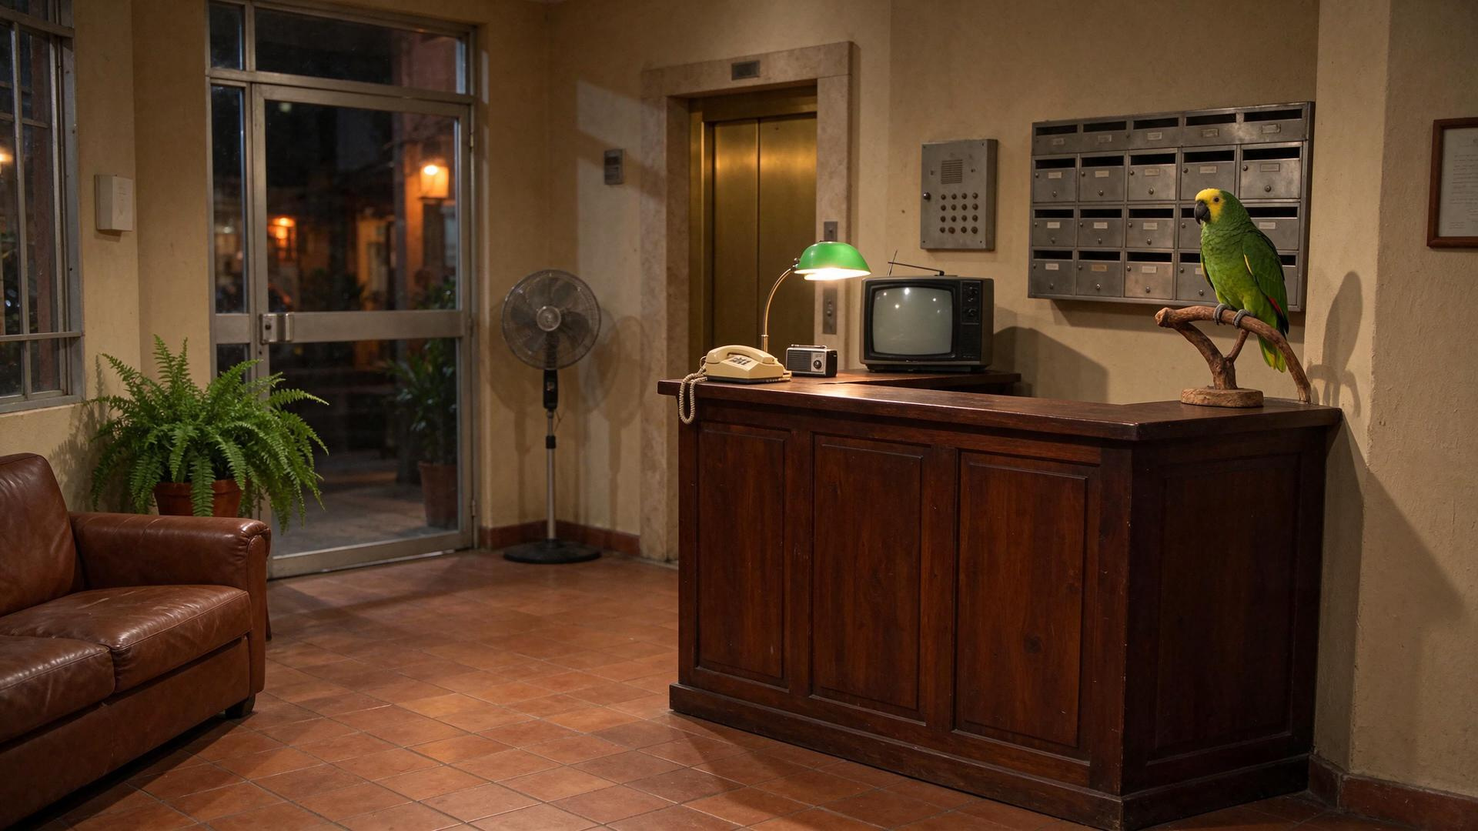
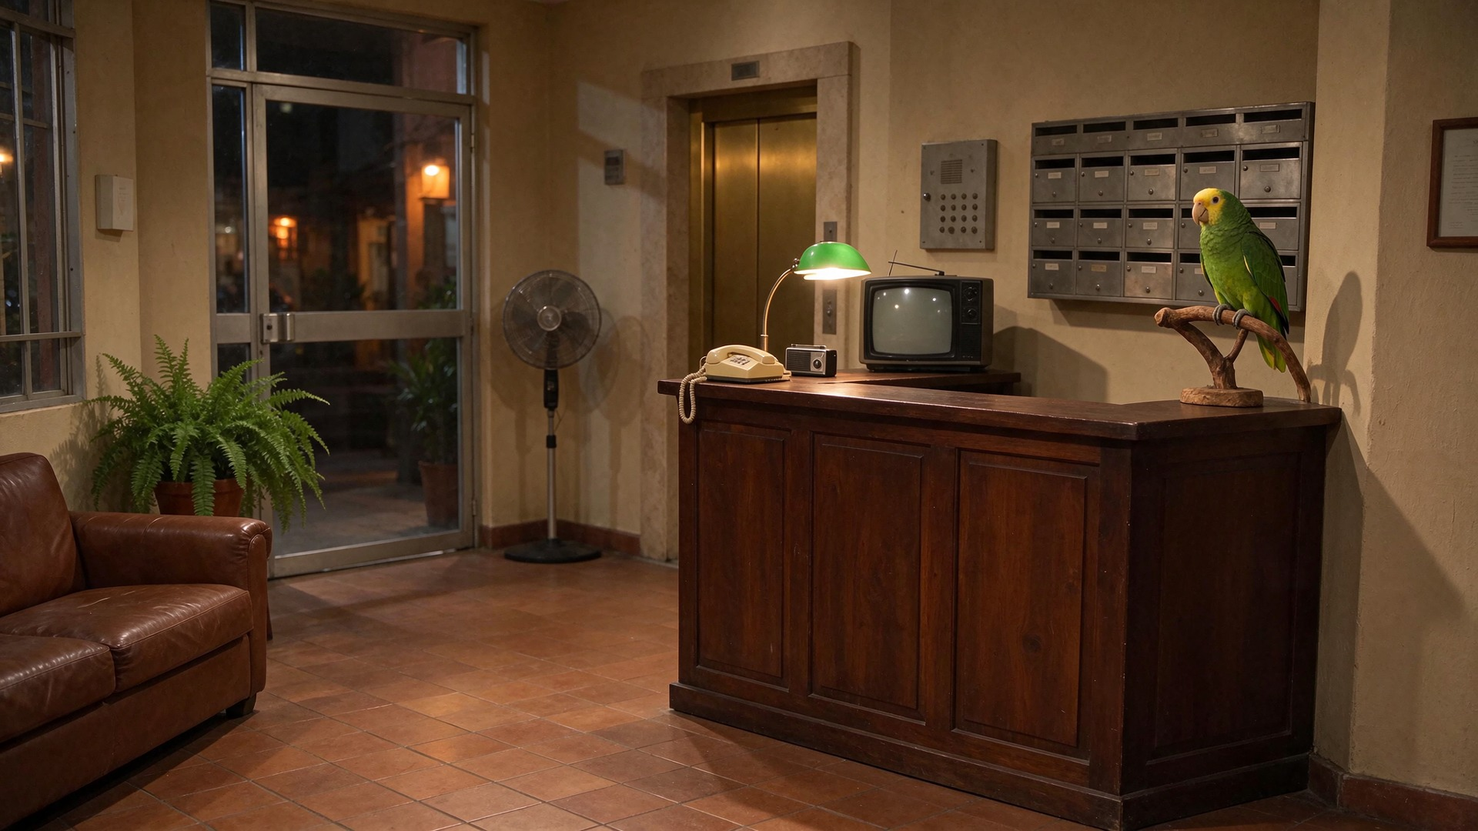
Lobby reference: parrot edited to match Sigilo (pale beak); names spelled by sound in spoken lines (Nêidji, Sijilo) after Lucas's listening
Claude-Session: https://claude.ai/code/session_01CYEraTgRKJNuKiFNAyFqLs

diff --git a/novelinhas/serie-portaria/ep01-a-caixa/montar_tomadas.py b/novelinhas/serie-portaria/ep01-a-caixa/montar_tomadas.py
@@ -88,9 +88,9 @@ tomada("valdir1", "valdir", 4, [2], curta("glancing down over the counter at som
        "eyebrows raised, amused,", fala("valdir", "Que caixa é essa, Juninho?")))
 tomada("valdir2", "valdir", 6, [6, 8], "0 to 2 s: not looking at anyone, playing innocent, " + fala("valdir", "Eu não sou de comentar.")
        + " 2 to 3 s: a quick glance toward screen left, as if someone is staring at him. 3 to 5 s: he leans forward and "
-       + fala("valdir", "É da Dona Neidi.", "quietly, almost whispering") + " 5 to 6 s: he straightens up, mouth closed.", olhar=False)
+       + fala("valdir", "É da Dona Nêidji.", "quietly, almost whispering") + " 5 to 6 s: he straightens up, mouth closed.", olhar=False)
 tomada("valdir3", "valdir", 4, [11], curta("turning his head toward screen RIGHT, toward the parrot at the end of the counter,",
-       fala("valdir", "Sigilo! Fica quieto.", "in a scolding whisper") + SIGILO_NOME, "he turns back toward screen left, mouth closed"),
+       fala("valdir", "Sijilo! Fica quieto.", "in a scolding whisper"), "he turns back toward screen left, mouth closed"),
        olhar=False)
 tomada("valdir4", "valdir", 4, [15], curta("helpful and polite, gesturing down toward the floor in front of the counter (out of frame),",
        fala("valdir", "Chegou uma caixa pra senhora.")) + " No box is visible in this shot; the counter top holds only the phone, the lamp and the small TV.")
@@ -132,7 +132,7 @@ T.append({"tomada": "hall1", "camera": "C1", "refs": ["juninho.jpg", "valdir.jpg
           "prompt": "Wide shot of the lobby of @Image3, camera at eye level, the whole counter visible. The doorman of @Image2 "
           "(grey mustache, light blue shirt, navy tie) stands behind the counter. The glass street door opens and the delivery "
           "man of @Image1 (orange jacket, black helmet) walks in hugging a huge plain brown cardboard box with no text that "
-          "hides his face, and puts it down on the floor in front of the counter. " + fala("juninho", "Entrega pra Dona Neidi!", "out of breath")
+          "hides his face, and puts it down on the floor in front of the counter. " + fala("juninho", "Entrega pra Dona Nêidji!", "out of breath")
           + " Only JUNINHO speaks. " + COMUM})
 T.append({"tomada": "hall2", "camera": "C1", "refs": ["neide.jpg", "soraia.jpg", "portaria.jpg"], "segundos": 4, "planos": [12],
           "prompt": "Wide shot of the lobby of @Image3, camera facing the elevator door with the gold frame; the counter is out "

diff --git a/novelinhas/serie-portaria/ep01-a-caixa/tomadas.md b/novelinhas/serie-portaria/ep01-a-caixa/tomadas.md
@@ -9,8 +9,8 @@ Sotaque carioca para todos, igual ao do Sigilo.
 | Tomada | Câm. | Planos | s | Referências | Prompt |
 |---|---|---|---|---|---|
 | valdir1 | C2 | 2 | 4 | valdir.jpg, portaria.jpg | Medium close-up at eye level of the doorman of @Image1: same face, short grey hair, grey mustache, light blue short-sleeve shirt, navy tie, reading glasses hanging on a cord. He stands behind the dark wooden counter of @Image2; behind him, out of focus, the metal mailboxes and the intercom panel. @Image1 defines only the identity (face, hair, clothes); @Image2 defines only the place. Do not copy their framing, poses or lighting. Looking toward screen LEFT, at the person in front of the counter just off-screen. 0 to 2 s: glancing down over the counter at something big on the floor (out of frame), eyebrows raised, amused, VALDIR says: "Que caixa é essa, Juninho?" Voice: deep, warm, relaxed voice of a man about 58, lively conversational rhythm. 2 to 4 s: a small natural reaction right after the line (a nod or a glance), mouth closed. Only VALDIR speaks. 1990s TV sitcom look, warm studio lighting, rich saturated colors, subtle film grain, background softly out of focus. Static camera, one continuous shot, no cuts. PACE: lively sitcom timing in real time; the character starts talking within the first half second, moves, turns and gestures at normal everyday speed (real-time motion, no slow motion), with natural blinking, following the timings in seconds exactly, with lively intonation; no slow motion, no long silent pauses, nobody stands still waiting. Speech in Brazilian Portuguese with a natural Rio de Janeiro accent. Audio: only the spoken line(s) and soft room tone. No music, no laugh track, no other voices. No subtitles, no text on screen. |
-| valdir2 | C2 | 6, 8 | 6 | valdir.jpg, portaria.jpg | Medium close-up at eye level of the doorman of @Image1: same face, short grey hair, grey mustache, light blue short-sleeve shirt, navy tie, reading glasses hanging on a cord. He stands behind the dark wooden counter of @Image2; behind him, out of focus, the metal mailboxes and the intercom panel. @Image1 defines only the identity (face, hair, clothes); @Image2 defines only the place. Do not copy their framing, poses or lighting. 0 to 2 s: not looking at anyone, playing innocent, VALDIR says: "Eu não sou de comentar." Voice: deep, warm, relaxed voice of a man about 58, lively conversational rhythm. 2 to 3 s: a quick glance toward screen left, as if someone is staring at him. 3 to 5 s: he leans forward and VALDIR says quietly, almost whispering: "É da Dona Neidi." Voice: deep, warm, relaxed voice of a man about 58, lively conversational rhythm. 5 to 6 s: he straightens up, mouth closed. Only VALDIR speaks. 1990s TV sitcom look, warm studio lighting, rich saturated colors, subtle film grain, background softly out of focus. Static camera, one continuous shot, no cuts. PACE: lively sitcom timing in real time; the character starts talking within the first half second, moves, turns and gestures at normal everyday speed (real-time motion, no slow motion), with natural blinking, following the timings in seconds exactly, with lively intonation; no slow motion, no long silent pauses, nobody stands still waiting. Speech in Brazilian Portuguese with a natural Rio de Janeiro accent. Audio: only the spoken line(s) and soft room tone. No music, no laugh track, no other voices. No subtitles, no text on screen. |
-| valdir3 | C2 | 11 | 4 | valdir.jpg, portaria.jpg | Medium close-up at eye level of the doorman of @Image1: same face, short grey hair, grey mustache, light blue short-sleeve shirt, navy tie, reading glasses hanging on a cord. He stands behind the dark wooden counter of @Image2; behind him, out of focus, the metal mailboxes and the intercom panel. @Image1 defines only the identity (face, hair, clothes); @Image2 defines only the place. Do not copy their framing, poses or lighting. 0 to 2 s: turning his head toward screen RIGHT, toward the parrot at the end of the counter, VALDIR says in a scolding whisper: "Sigilo! Fica quieto." Voice: deep, warm, relaxed voice of a man about 58, lively conversational rhythm. (Sigilo, the parrot's name, is the Portuguese word 'sigilo', meaning secrecy, pronounced like that word.) 2 to 4 s: he turns back toward screen left, mouth closed. Only VALDIR speaks. 1990s TV sitcom look, warm studio lighting, rich saturated colors, subtle film grain, background softly out of focus. Static camera, one continuous shot, no cuts. PACE: lively sitcom timing in real time; the character starts talking within the first half second, moves, turns and gestures at normal everyday speed (real-time motion, no slow motion), with natural blinking, following the timings in seconds exactly, with lively intonation; no slow motion, no long silent pauses, nobody stands still waiting. Speech in Brazilian Portuguese with a natural Rio de Janeiro accent. Audio: only the spoken line(s) and soft room tone. No music, no laugh track, no other voices. No subtitles, no text on screen. |
+| valdir2 | C2 | 6, 8 | 6 | valdir.jpg, portaria.jpg | Medium close-up at eye level of the doorman of @Image1: same face, short grey hair, grey mustache, light blue short-sleeve shirt, navy tie, reading glasses hanging on a cord. He stands behind the dark wooden counter of @Image2; behind him, out of focus, the metal mailboxes and the intercom panel. @Image1 defines only the identity (face, hair, clothes); @Image2 defines only the place. Do not copy their framing, poses or lighting. 0 to 2 s: not looking at anyone, playing innocent, VALDIR says: "Eu não sou de comentar." Voice: deep, warm, relaxed voice of a man about 58, lively conversational rhythm. 2 to 3 s: a quick glance toward screen left, as if someone is staring at him. 3 to 5 s: he leans forward and VALDIR says quietly, almost whispering: "É da Dona Nêidji." Voice: deep, warm, relaxed voice of a man about 58, lively conversational rhythm. 5 to 6 s: he straightens up, mouth closed. Only VALDIR speaks. 1990s TV sitcom look, warm studio lighting, rich saturated colors, subtle film grain, background softly out of focus. Static camera, one continuous shot, no cuts. PACE: lively sitcom timing in real time; the character starts talking within the first half second, moves, turns and gestures at normal everyday speed (real-time motion, no slow motion), with natural blinking, following the timings in seconds exactly, with lively intonation; no slow motion, no long silent pauses, nobody stands still waiting. Speech in Brazilian Portuguese with a natural Rio de Janeiro accent. Audio: only the spoken line(s) and soft room tone. No music, no laugh track, no other voices. No subtitles, no text on screen. |
+| valdir3 | C2 | 11 | 4 | valdir.jpg, portaria.jpg | Medium close-up at eye level of the doorman of @Image1: same face, short grey hair, grey mustache, light blue short-sleeve shirt, navy tie, reading glasses hanging on a cord. He stands behind the dark wooden counter of @Image2; behind him, out of focus, the metal mailboxes and the intercom panel. @Image1 defines only the identity (face, hair, clothes); @Image2 defines only the place. Do not copy their framing, poses or lighting. 0 to 2 s: turning his head toward screen RIGHT, toward the parrot at the end of the counter, VALDIR says in a scolding whisper: "Sijilo! Fica quieto." Voice: deep, warm, relaxed voice of a man about 58, lively conversational rhythm. 2 to 4 s: he turns back toward screen left, mouth closed. Only VALDIR speaks. 1990s TV sitcom look, warm studio lighting, rich saturated colors, subtle film grain, background softly out of focus. Static camera, one continuous shot, no cuts. PACE: lively sitcom timing in real time; the character starts talking within the first half second, moves, turns and gestures at normal everyday speed (real-time motion, no slow motion), with natural blinking, following the timings in seconds exactly, with lively intonation; no slow motion, no long silent pauses, nobody stands still waiting. Speech in Brazilian Portuguese with a natural Rio de Janeiro accent. Audio: only the spoken line(s) and soft room tone. No music, no laugh track, no other voices. No subtitles, no text on screen. |
 | valdir4 | C2 | 15 | 4 | valdir.jpg, portaria.jpg | Medium close-up at eye level of the doorman of @Image1: same face, short grey hair, grey mustache, light blue short-sleeve shirt, navy tie, reading glasses hanging on a cord. He stands behind the dark wooden counter of @Image2; behind him, out of focus, the metal mailboxes and the intercom panel. @Image1 defines only the identity (face, hair, clothes); @Image2 defines only the place. Do not copy their framing, poses or lighting. Looking toward screen LEFT, at the person in front of the counter just off-screen. 0 to 2 s: helpful and polite, gesturing down toward the floor in front of the counter (out of frame), VALDIR says: "Chegou uma caixa pra senhora." Voice: deep, warm, relaxed voice of a man about 58, lively conversational rhythm. 2 to 4 s: a small natural reaction right after the line (a nod or a glance), mouth closed. No box is visible in this shot; the counter top holds only the phone, the lamp and the small TV. Only VALDIR speaks. 1990s TV sitcom look, warm studio lighting, rich saturated colors, subtle film grain, background softly out of focus. Static camera, one continuous shot, no cuts. PACE: lively sitcom timing in real time; the character starts talking within the first half second, moves, turns and gestures at normal everyday speed (real-time motion, no slow motion), with natural blinking, following the timings in seconds exactly, with lively intonation; no slow motion, no long silent pauses, nobody stands still waiting. Speech in Brazilian Portuguese with a natural Rio de Janeiro accent. Audio: only the spoken line(s) and soft room tone. No music, no laugh track, no other voices. No subtitles, no text on screen. |
 | valdir5 | C2 | 25, 27 | 6 | valdir.jpg, portaria.jpg | Medium close-up at eye level of the doorman of @Image1: same face, short grey hair, grey mustache, light blue short-sleeve shirt, navy tie, reading glasses hanging on a cord. He stands behind the dark wooden counter of @Image2; behind him, out of focus, the metal mailboxes and the intercom panel. @Image1 defines only the identity (face, hair, clothes); @Image2 defines only the place. Do not copy their framing, poses or lighting. 0 to 2 s: looking up at the ceiling, innocent, VALDIR says: "Eu não sou de comentar..." Voice: deep, warm, relaxed voice of a man about 58, lively conversational rhythm. 2 to 6 s: he freezes for a beat, then quickly straightens his tie with both hands, embarrassed, mouth closed. Only VALDIR speaks. 1990s TV sitcom look, warm studio lighting, rich saturated colors, subtle film grain, background softly out of focus. Static camera, one continuous shot, no cuts. PACE: lively sitcom timing in real time; the character starts talking within the first half second, moves, turns and gestures at normal everyday speed (real-time motion, no slow motion), with natural blinking, following the timings in seconds exactly, with lively intonation; no slow motion, no long silent pauses, nobody stands still waiting. Speech in Brazilian Portuguese with a natural Rio de Janeiro accent. Audio: only the spoken line(s) and soft room tone. No music, no laugh track, no other voices. No subtitles, no text on screen. |
 | soraia1 | C3 | 5, 7 | 6 | soraia.jpg, portaria.jpg | Medium close-up at eye level of the resident of @Image1: same face, shiny hot pink satin bathrobe, pink hair curlers. She stands in the lobby of @Image2 in front of the counter; behind her, out of focus, the brown leather sofa and the fern. @Image1 defines only the identity (face, hair, clothes); @Image2 defines only the place. Do not copy their framing, poses or lighting. 0 to 3 s: eyes glued to something on the floor, pretending not to care, SORAIA says: "Não que eu queira saber..." Voice: husky, drawling, teasing voice of a woman about 40. 3 to 6 s: she looks up toward screen RIGHT and stares, one eyebrow raised, mouth closed. Only SORAIA speaks. 1990s TV sitcom look, warm studio lighting, rich saturated colors, subtle film grain, background softly out of focus. Static camera, one continuous shot, no cuts. PACE: lively sitcom timing in real time; the character starts talking within the first half second, moves, turns and gestures at normal everyday speed (real-time motion, no slow motion), with natural blinking, following the timings in seconds exactly, with lively intonation; no slow motion, no long silent pauses, nobody stands still waiting. Speech in Brazilian Portuguese with a natural Rio de Janeiro accent. Audio: only the spoken line(s) and soft room tone. No music, no laugh track, no other voices. No subtitles, no text on screen. |
@@ -29,6 +29,6 @@ Sotaque carioca para todos, igual ao do Sigilo.
 | sigilo1 | C4 | 10 | 4 | sigilo.jpg, portaria.jpg | Close-up of the green parrot with a yellow face and a PALE IVORY BEAK of @Image1, on its curved branch perch at the end of the dark wooden counter of @Image2; behind it, out of focus, the metal mailboxes. @Image1 defines only the identity (face, hair, clothes); @Image2 defines only the place. Do not copy their framing, poses or lighting. 0 to 2 s: bobbing its head, SIGILO says fast and mocking: "Pesada assim! Pesada assim!" Voice: a cartoon parrot puppet voice performed by a man: gravelly, nasal, squeaky, fast and mocking. 2 to 4 s: it bobs its head once more. Only the parrot speaks; its beak opens and closes with every syllable. 1990s TV sitcom look, warm studio lighting, rich saturated colors, subtle film grain, background softly out of focus. Static camera, one continuous shot, no cuts. PACE: lively sitcom timing in real time; the character starts talking within the first half second, moves, turns and gestures at normal everyday speed (real-time motion, no slow motion), with natural blinking, following the timings in seconds exactly, with lively intonation; no slow motion, no long silent pauses, nobody stands still waiting. Speech in Brazilian Portuguese with a natural Rio de Janeiro accent. Audio: only the spoken line(s) and soft room tone. No music, no laugh track, no other voices. No subtitles, no text on screen. |
 | sigilo2 | C4 | 26 | 4 | sigilo.jpg, portaria.jpg | Close-up of the green parrot with a yellow face and a PALE IVORY BEAK of @Image1, on its curved branch perch at the end of the dark wooden counter of @Image2; behind it, out of focus, the metal mailboxes. @Image1 defines only the identity (face, hair, clothes); @Image2 defines only the place. Do not copy their framing, poses or lighting. 0 to 3 s: bobbing its head, SIGILO says fast and mocking: "O segundo é do Valdir!" Voice: a cartoon parrot puppet voice performed by a man: gravelly, nasal, squeaky, fast and mocking. 3 to 4 s: a short cackling laugh. Only the parrot speaks; its beak opens and closes with every syllable. 1990s TV sitcom look, warm studio lighting, rich saturated colors, subtle film grain, background softly out of focus. Static camera, one continuous shot, no cuts. PACE: lively sitcom timing in real time; the character starts talking within the first half second, moves, turns and gestures at normal everyday speed (real-time motion, no slow motion), with natural blinking, following the timings in seconds exactly, with lively intonation; no slow motion, no long silent pauses, nobody stands still waiting. Speech in Brazilian Portuguese with a natural Rio de Janeiro accent. Audio: only the spoken line(s) and soft room tone. No music, no laugh track, no other voices. No subtitles, no text on screen. |
 | sigilo3 | C4 | 28, 30 | 6 | sigilo.jpg, portaria.jpg | Close-up of the green parrot with a yellow face and a PALE IVORY BEAK of @Image1, on its curved branch perch at the end of the dark wooden counter of @Image2; behind it, out of focus, the metal mailboxes. @Image1 defines only the identity (face, hair, clothes); @Image2 defines only the place. Do not copy their framing, poses or lighting. 0 to 3 s: it flaps its wings once and SIGILO says fast and mocking: "Ensaio às nove! Ensaio às nove!" Voice: a cartoon parrot puppet voice performed by a man: gravelly, nasal, squeaky, fast and mocking. 3 to 4 s: a quick head tilt. 4 to 6 s: SIGILO says mocking: "É regra! É regra!" Voice: a cartoon parrot puppet voice performed by a man: gravelly, nasal, squeaky, fast and mocking. Only the parrot speaks; its beak opens and closes with every syllable. 1990s TV sitcom look, warm studio lighting, rich saturated colors, subtle film grain, background softly out of focus. Static camera, one continuous shot, no cuts. PACE: lively sitcom timing in real time; the character starts talking within the first half second, moves, turns and gestures at normal everyday speed (real-time motion, no slow motion), with natural blinking, following the timings in seconds exactly, with lively intonation; no slow motion, no long silent pauses, nobody stands still waiting. Speech in Brazilian Portuguese with a natural Rio de Janeiro accent. Audio: only the spoken line(s) and soft room tone. No music, no laugh track, no other voices. No subtitles, no text on screen. |
-| hall1 | C1 | 1 | 4 | juninho.jpg, valdir.jpg, portaria.jpg | Wide shot of the lobby of @Image3, camera at eye level, the whole counter visible. The doorman of @Image2 (grey mustache, light blue shirt, navy tie) stands behind the counter. The glass street door opens and the delivery man of @Image1 (orange jacket, black helmet) walks in hugging a huge plain brown cardboard box with no text that hides his face, and puts it down on the floor in front of the counter. JUNINHO says out of breath: "Entrega pra Dona Neidi!" Voice: light, quick voice of a young man about 22. Only JUNINHO speaks. 1990s TV sitcom look, warm studio lighting, rich saturated colors, subtle film grain, background softly out of focus. Static camera, one continuous shot, no cuts. PACE: lively sitcom timing in real time; the character starts talking within the first half second, moves, turns and gestures at normal everyday speed (real-time motion, no slow motion), with natural blinking, following the timings in seconds exactly, with lively intonation; no slow motion, no long silent pauses, nobody stands still waiting. Speech in Brazilian Portuguese with a natural Rio de Janeiro accent. Audio: only the spoken line(s) and soft room tone. No music, no laugh track, no other voices. No subtitles, no text on screen. |
+| hall1 | C1 | 1 | 4 | juninho.jpg, valdir.jpg, portaria.jpg | Wide shot of the lobby of @Image3, camera at eye level, the whole counter visible. The doorman of @Image2 (grey mustache, light blue shirt, navy tie) stands behind the counter. The glass street door opens and the delivery man of @Image1 (orange jacket, black helmet) walks in hugging a huge plain brown cardboard box with no text that hides his face, and puts it down on the floor in front of the counter. JUNINHO says out of breath: "Entrega pra Dona Nêidji!" Voice: light, quick voice of a young man about 22. Only JUNINHO speaks. 1990s TV sitcom look, warm studio lighting, rich saturated colors, subtle film grain, background softly out of focus. Static camera, one continuous shot, no cuts. PACE: lively sitcom timing in real time; the character starts talking within the first half second, moves, turns and gestures at normal everyday speed (real-time motion, no slow motion), with natural blinking, following the timings in seconds exactly, with lively intonation; no slow motion, no long silent pauses, nobody stands still waiting. Speech in Brazilian Portuguese with a natural Rio de Janeiro accent. Audio: only the spoken line(s) and soft room tone. No music, no laugh track, no other voices. No subtitles, no text on screen. |
 | hall2 | C1 | 12 | 4 | neide.jpg, soraia.jpg, portaria.jpg | Wide shot of the lobby of @Image3, camera facing the elevator door with the gold frame; the counter is out of frame. The resident of @Image2 (hot pink satin bathrobe, pink curlers) stands in the foreground on screen left, her back half turned. The elevator doors open and the building manager of @Image1 (teased blonde hair, red blazer, pearls, clipboard) steps out and NEIDE says bossy: "Que reunião é essa na portaria?" Voice: high, firm, fast, bossy voice of a woman about 62. Only NEIDE speaks. 1990s TV sitcom look, warm studio lighting, rich saturated colors, subtle film grain, background softly out of focus. Static camera, one continuous shot, no cuts. PACE: lively sitcom timing in real time; the character starts talking within the first half second, moves, turns and gestures at normal everyday speed (real-time motion, no slow motion), with natural blinking, following the timings in seconds exactly, with lively intonation; no slow motion, no long silent pauses, nobody stands still waiting. Speech in Brazilian Portuguese with a natural Rio de Janeiro accent. Audio: only the spoken line(s) and soft room tone. No music, no laugh track, no other voices. No subtitles, no text on screen. |
 | perfil | C5 | 14 | 4 | neide.jpg, soraia.jpg, portaria.jpg | Medium two-shot in profile in the lobby of @Image3: the building manager of @Image1 (teased blonde hair, red blazer, pearls, clipboard) on screen RIGHT facing left, and the resident of @Image2 (hot pink satin bathrobe, pink curlers) on screen LEFT facing right, face to face. NEIDE looks the bathrobe up and down and NEIDE says firmly: "De roupão? É regra: roupão, não." Voice: high, firm, fast, bossy voice of a woman about 62. Soraia stays silent. Only NEIDE speaks. 1990s TV sitcom look, warm studio lighting, rich saturated colors, subtle film grain, background softly out of focus. Static camera, one continuous shot, no cuts. PACE: lively sitcom timing in real time; the character starts talking within the first half second, moves, turns and gestures at normal everyday speed (real-time motion, no slow motion), with natural blinking, following the timings in seconds exactly, with lively intonation; no slow motion, no long silent pauses, nobody stands still waiting. Speech in Brazilian Portuguese with a natural Rio de Janeiro accent. Audio: only the spoken line(s) and soft room tone. No music, no laugh track, no other voices. No subtitles, no text on screen. |

diff --git a/novelinhas/serie-portaria/biblia.md b/novelinhas/serie-portaria/biblia.md
@@ -70,9 +70,9 @@ C2, C3 e C4 (um personagem só) devem somar pelo menos dois terços dos planos.
 - Números por extenso ("trezentos e dois"), sem sigla, sem palavra estrangeira.
 - Palavras proibidas por pronúncia (a lista cresce a cada erro achado): **prédio** (usar "aqui", "o condomínio"); **Marlene** (o Seedance fala "Mariu"; a síndica passou a se chamar **Neide**).
 - Palavras testadas e aprovadas: **karaokê**.
-- Nome da síndica nas falas: escrever **"Neidi"** (escrito "Neide", o modelo fala estranho).
-- Nome do papagaio nas falas: escrever "Sigilo" e explicar, fora das aspas, que é a palavra "sigilo" (segredo)
-  (sem a explicação o modelo falou "segui-lo").
+- Nomes nas falas: escrever **como soa**, com letras que o modelo não lê errado (testado de ouvido pelo Lucas):
+  - síndica: "Neide" saiu estranho, "Neidi" saiu "Neida" → escrever **"Nêidji"**;
+  - papagaio: "Sigilo" saiu "segui-lo" e "Siguelho", mesmo explicando que é a palavra "sigilo" → escrever **"Sijilo"**.
 - Ritmo: pedir ritmo de sitcom em tempo real, fala começando no primeiro meio segundo, sem câmera lenta e sem
   pausas longas (com "voz sem pressa" e pausas de 2 s o Lucas achou robótico, "parece que está esperando").
 - Objeto citado numa fala aparece em cena (a fala "Pizza desse tamanho" gerou uma pizza no balcão). Quando a fala cita
